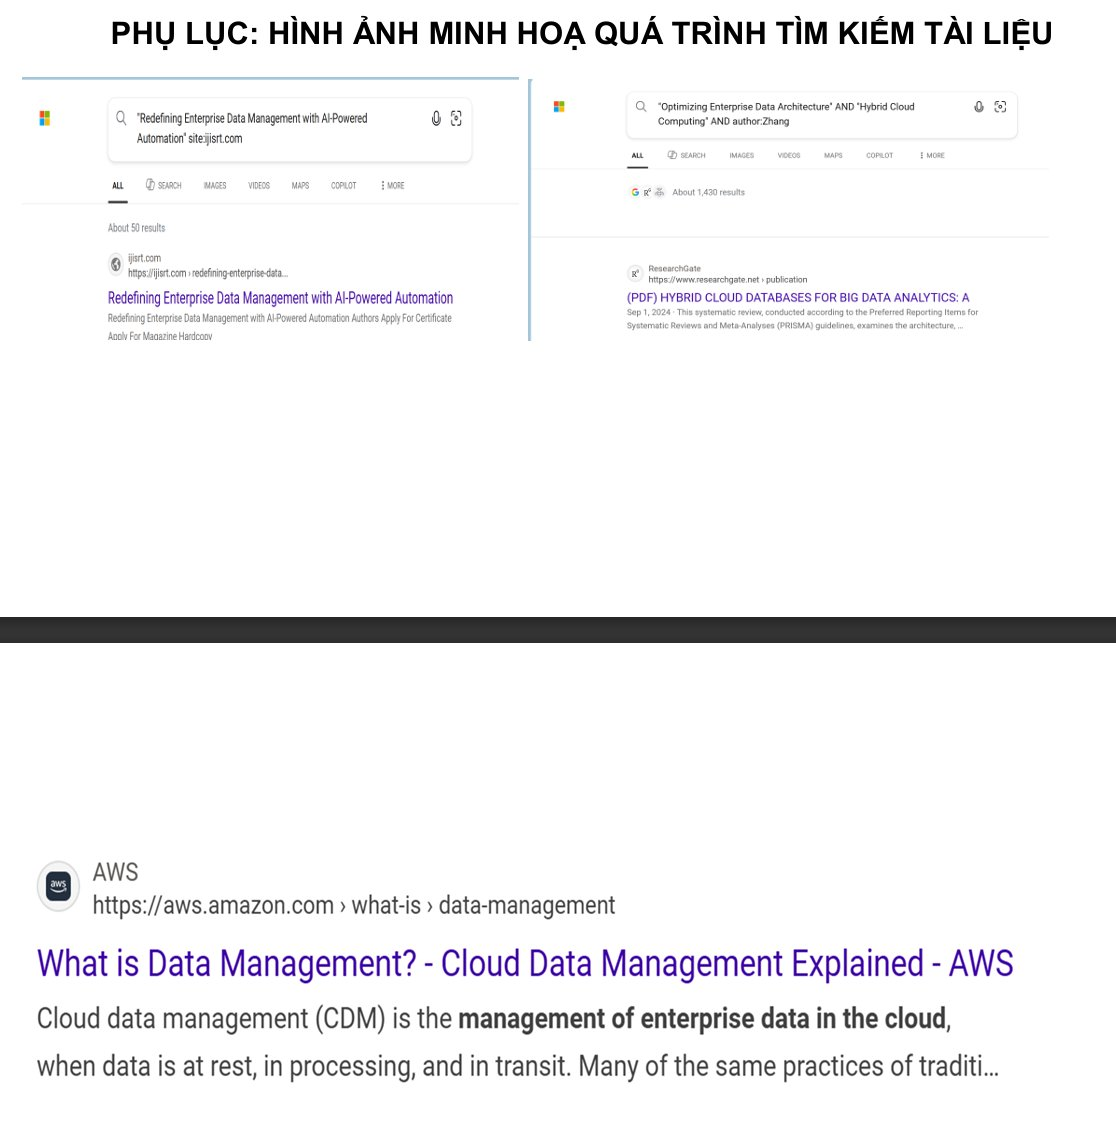
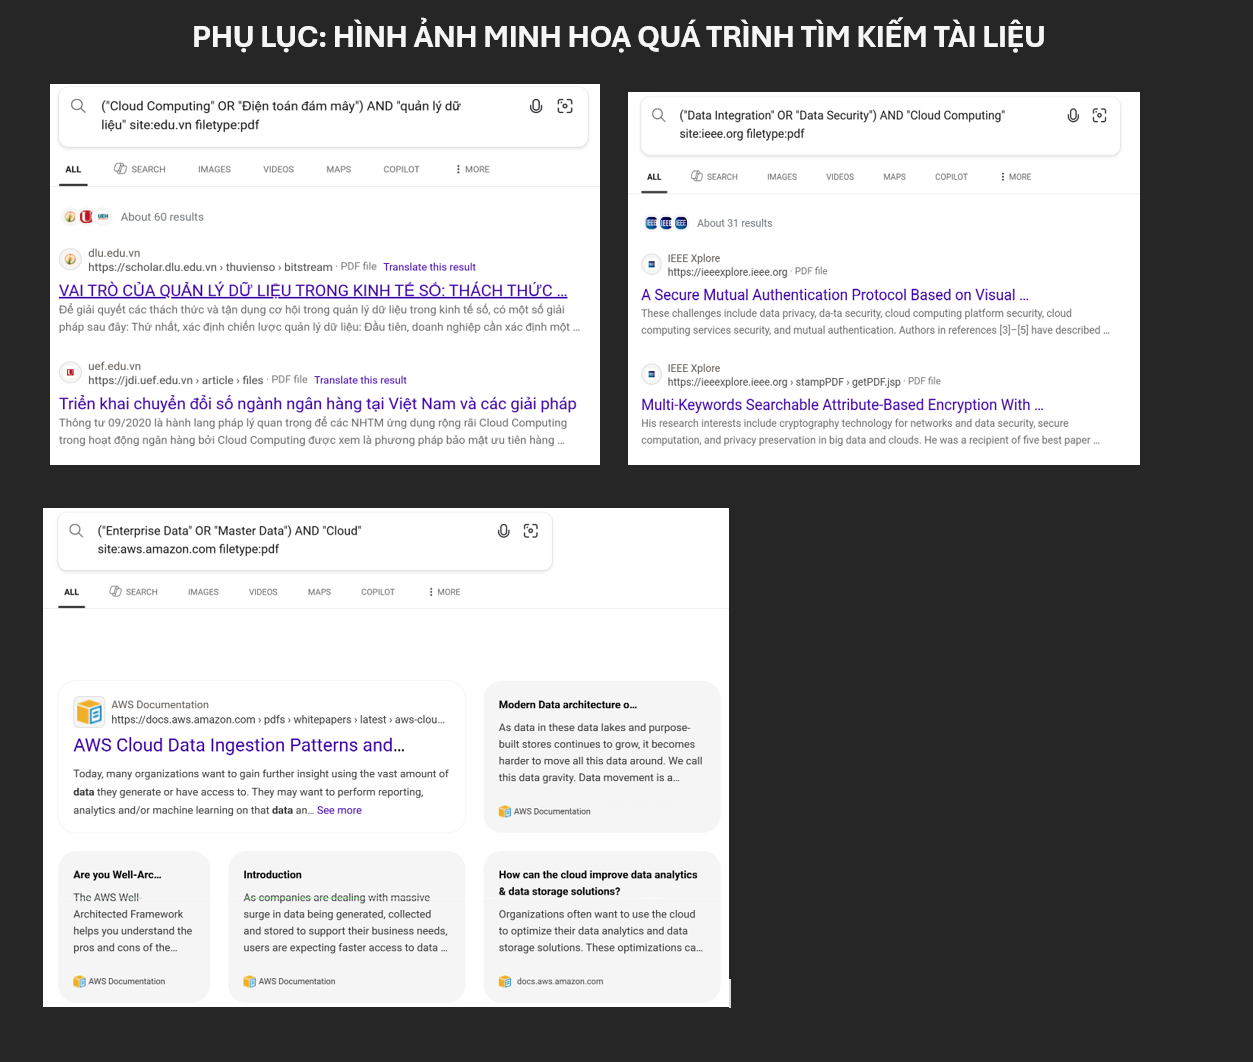
sua

diff --git a/src/data/projects.ts b/src/data/projects.ts
@@ -65,11 +65,11 @@ export const projects = [
       "Tiến hành đánh giá chuyên sâu độ tin cậy của từng nguồn dựa trên 4 tiêu chí cốt lõi: Tác giả, Cơ quan xuất bản, Phương pháp nghiên cứu/Trích dẫn gốc và Tính cập nhật."
     ],
     output: "Báo cáo phân tích chuyên sâu gồm 10 tài liệu tham khảo với bảng tổng hợp xếp hạng độ tin cậy từ Khá đến Rất cao. Củng cố phương pháp đánh giá tài liệu, phục vụ đắc lực cho nghiên cứu khoa học.",
-    link: "https://drive.google.com/file/d/1TIXDvVU7r7sYa3w_j1qW8qEFoeutUAGy/view?usp=sharing",
+    link: "https://drive.google.com/file/d/1zOiN4XJiXNReaV9eFR6Vf7FPJsL5Luvo/view?usp=sharing",
     results: [
       {
         image: "/bai2-anh1.png",
-        caption: "Quá trình tìm kiếm tài liệu",
+        caption: "Các từ khóa và toán tử đã sử dụng",
         aspectRatio: "aspect-[1/1]"
       },
       {
